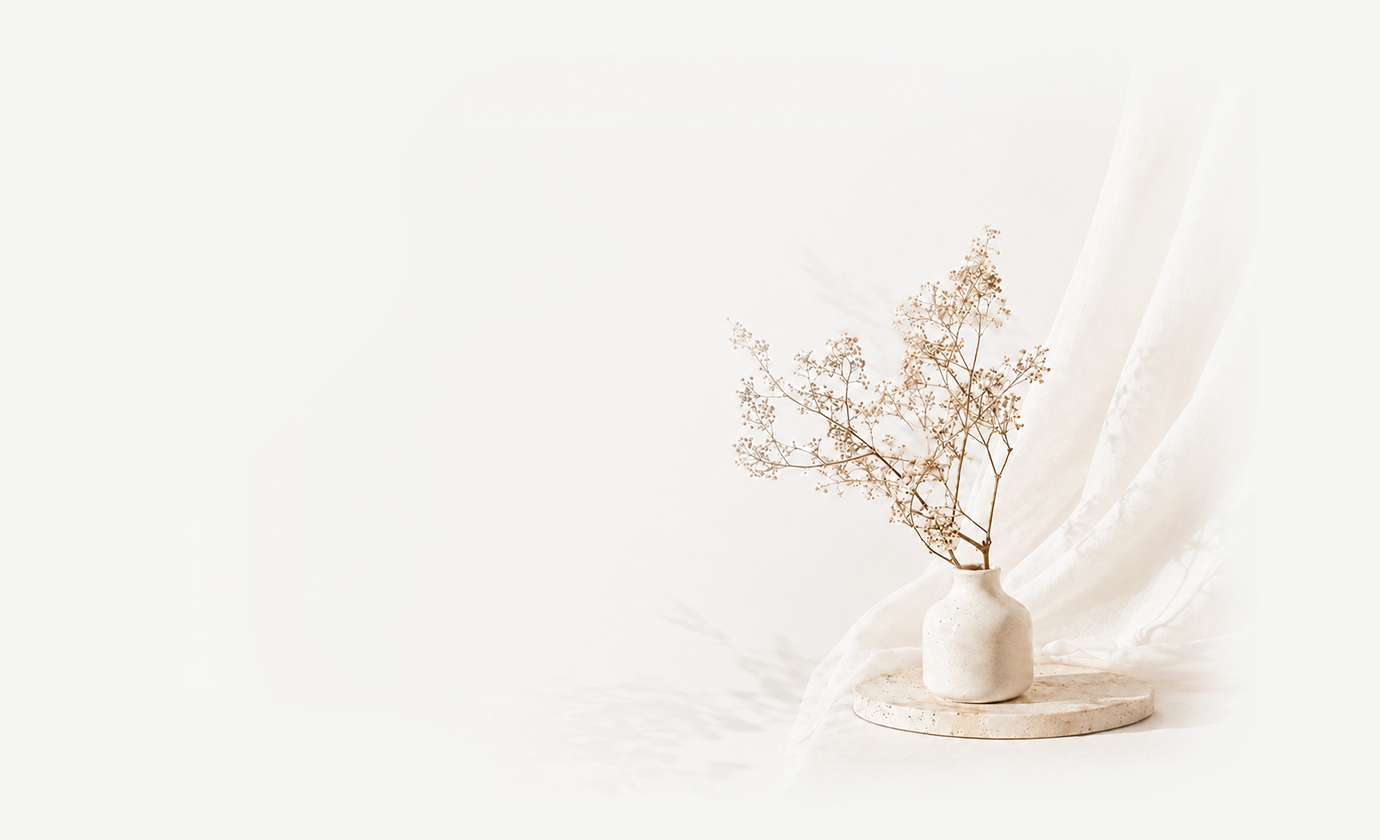
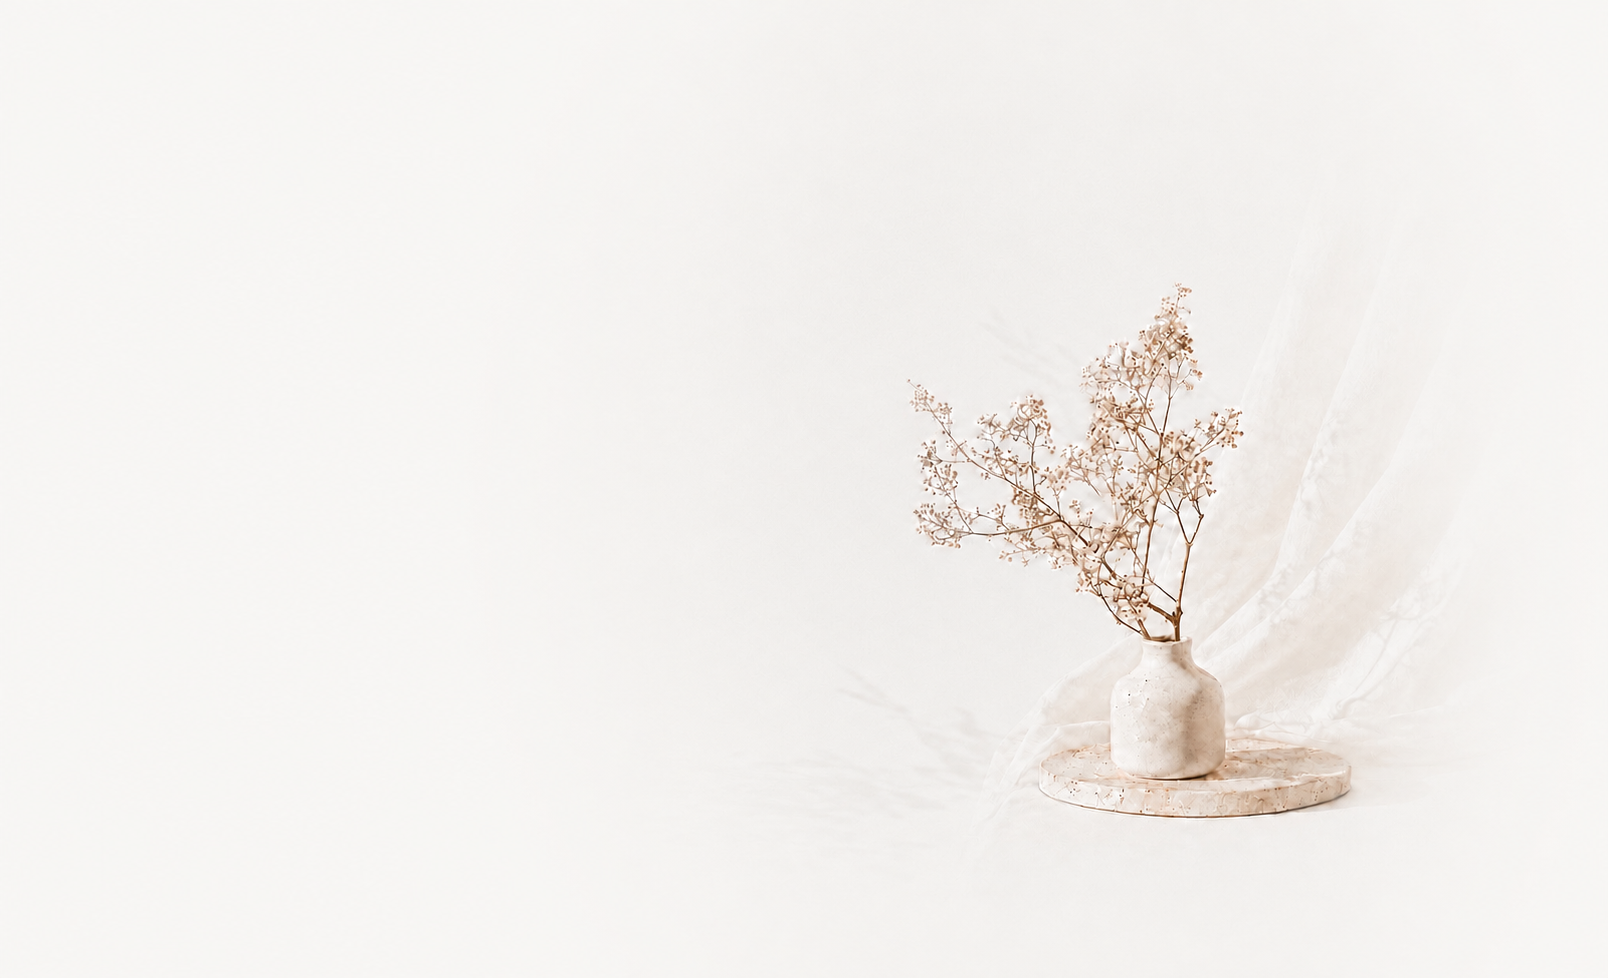
Swap homepage hero illustration to wider vase photo crop
New crop matches the layout's original ~1.64 aspect ratio more closely
than the previous attempt. Bump BUILD_VERSION and cache-busting query.

Claude-Session: https://claude.ai/code/session_01PxPckxnmRC1orDcja2NwgD

Changed region(s): [[0.5297, 0.2786, 0.8725, 0.8976], [0.8413, 0.65, 0.8725, 0.681], [0.8101, 0.681, 0.8413, 0.7119]]

diff --git a/index.html b/index.html
@@ -308,7 +308,7 @@
     <div class="hero-grid">
       <!-- 這張圖當背景鋪滿整個 hero-grid，文字直接疊在圖片上面（兩層：圖片在下、文字在上），
            沒有遮罩擋住插圖。 -->
-      <img class="hero-bg" src="img/hero-illustration.webp?v=2026-09-03-14" width="640" height="390" alt="" decoding="async" fetchpriority="high" aria-hidden="true">
+      <img class="hero-bg" src="img/hero-illustration.webp?v=2026-09-03-15" width="640" height="390" alt="" decoding="async" fetchpriority="high" aria-hidden="true">
       <ul class="feature-list">
         <li class="feature">
           <span class="feature-icon"><img src="img/feature-tag.webp" width="26" height="26" alt="" decoding="async"></span>
@@ -411,7 +411,7 @@
   // 自動偵測改版，避免手機瀏覽器停留在舊版內容（做法見 CLAUDE.md
   // 「Mobile browsers showing stale cached content」）。
   // 每次更新這個檔案，把版本號改成新的（例如當天日期）。
-  var BUILD_VERSION = "2026-09-03-14";
+  var BUILD_VERSION = "2026-09-03-15";
   var isCheckingUpdate = false;
   // 剛部署完的那幾分鐘，CDN 各節點還沒同步完成，這裡抓到的內容可能忽新忽舊，
   // 若每次偵測到差異就立刻重新整理，會讓頁面在測速工具（如 PageSpeed Insights）
